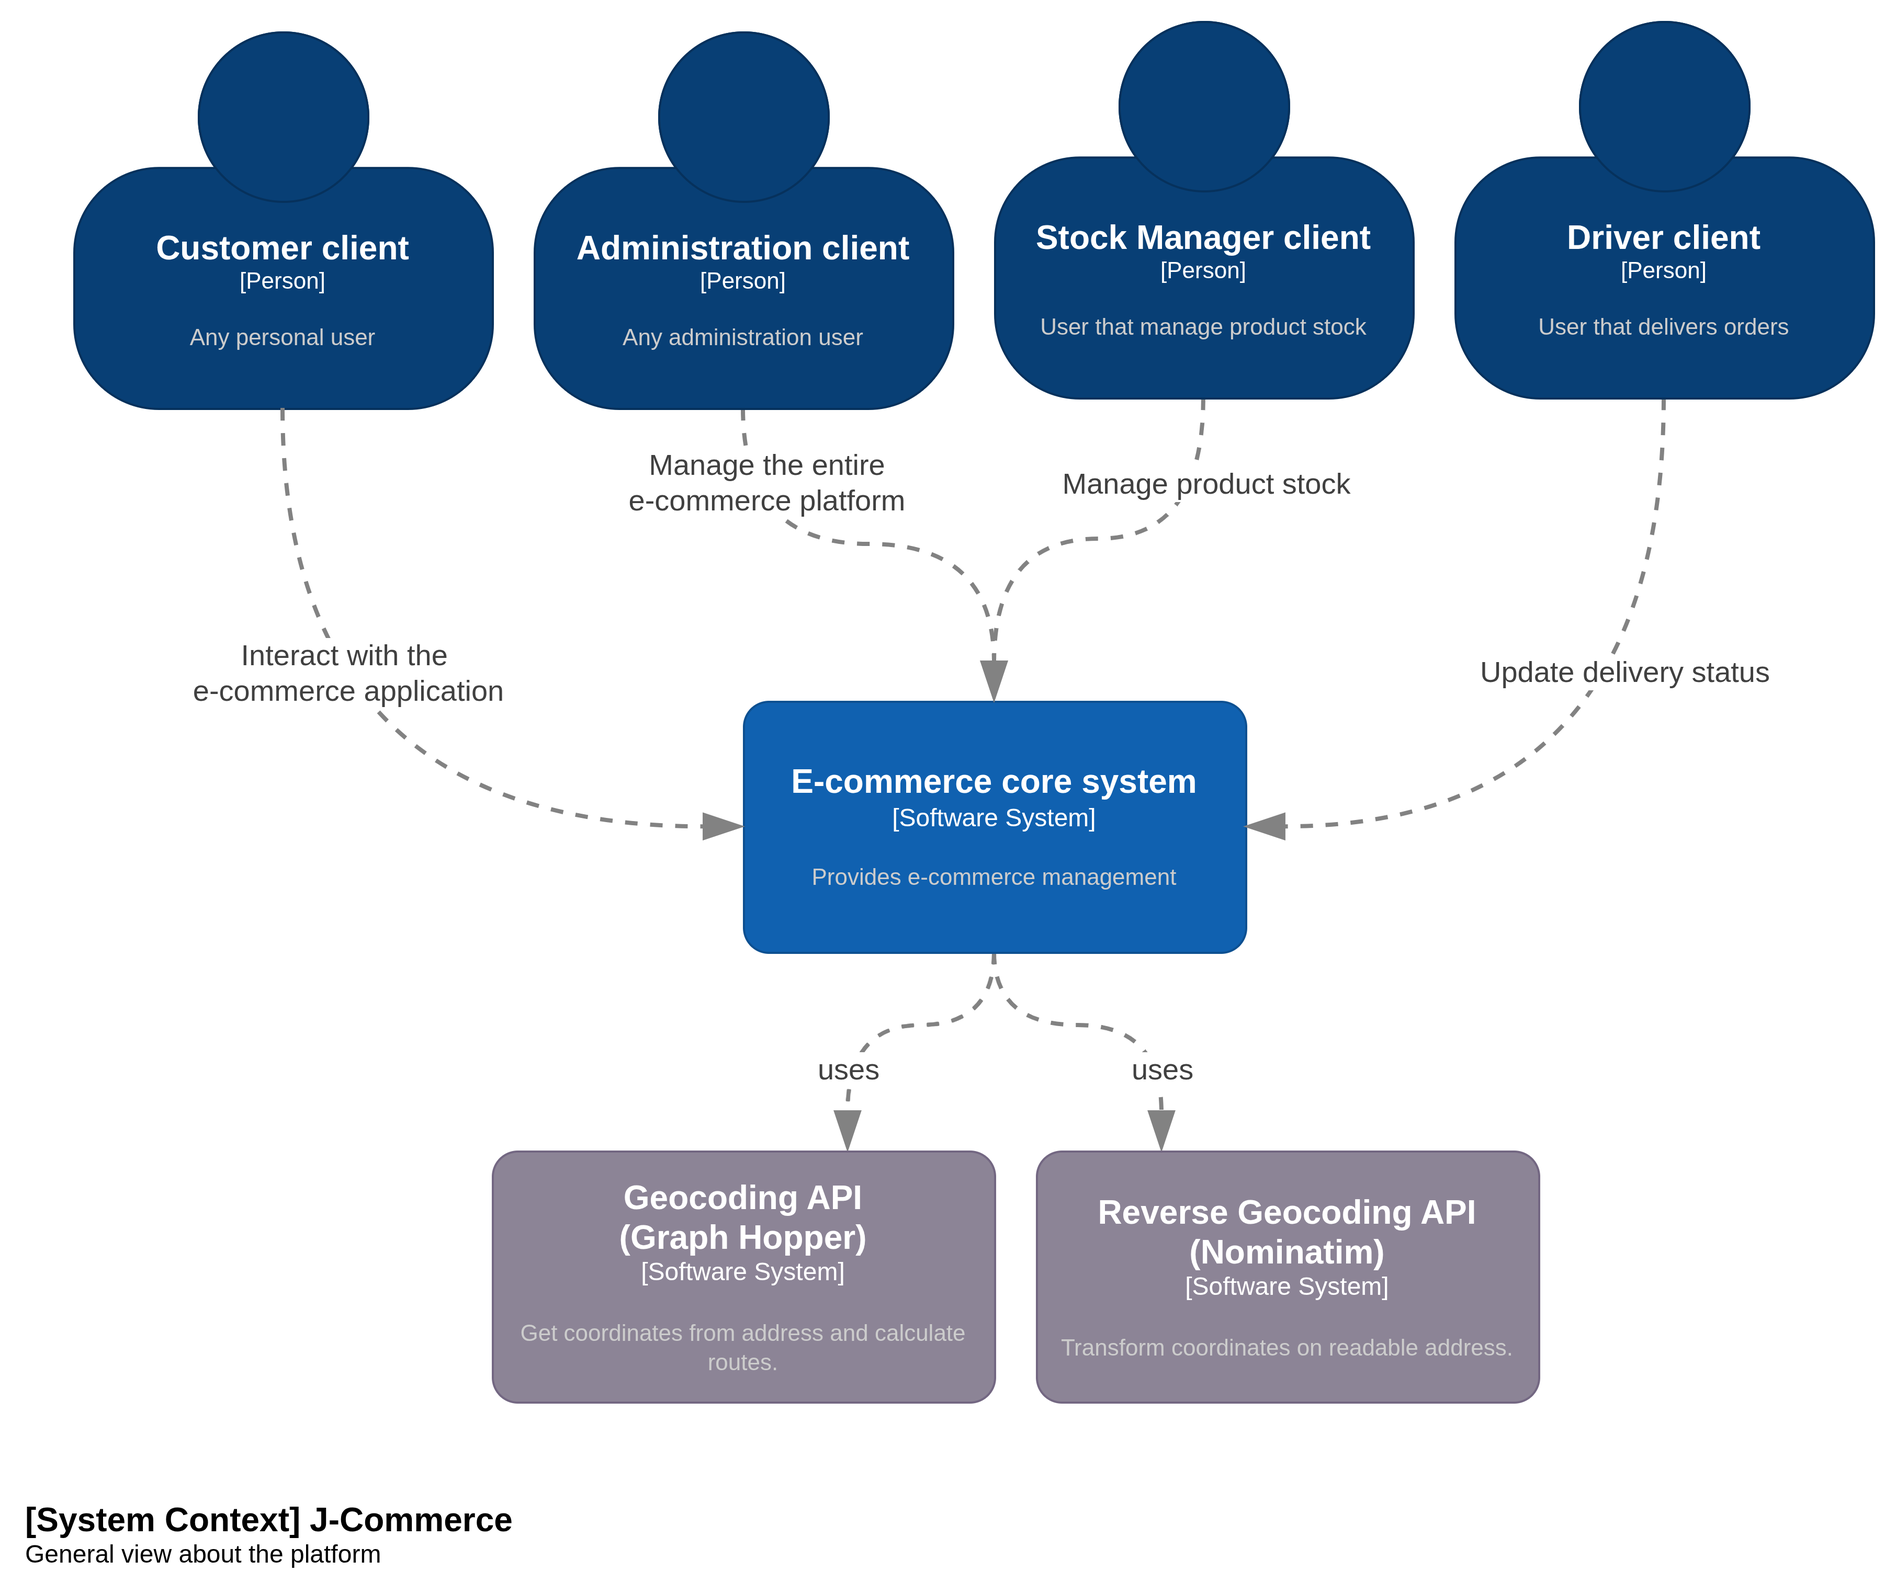
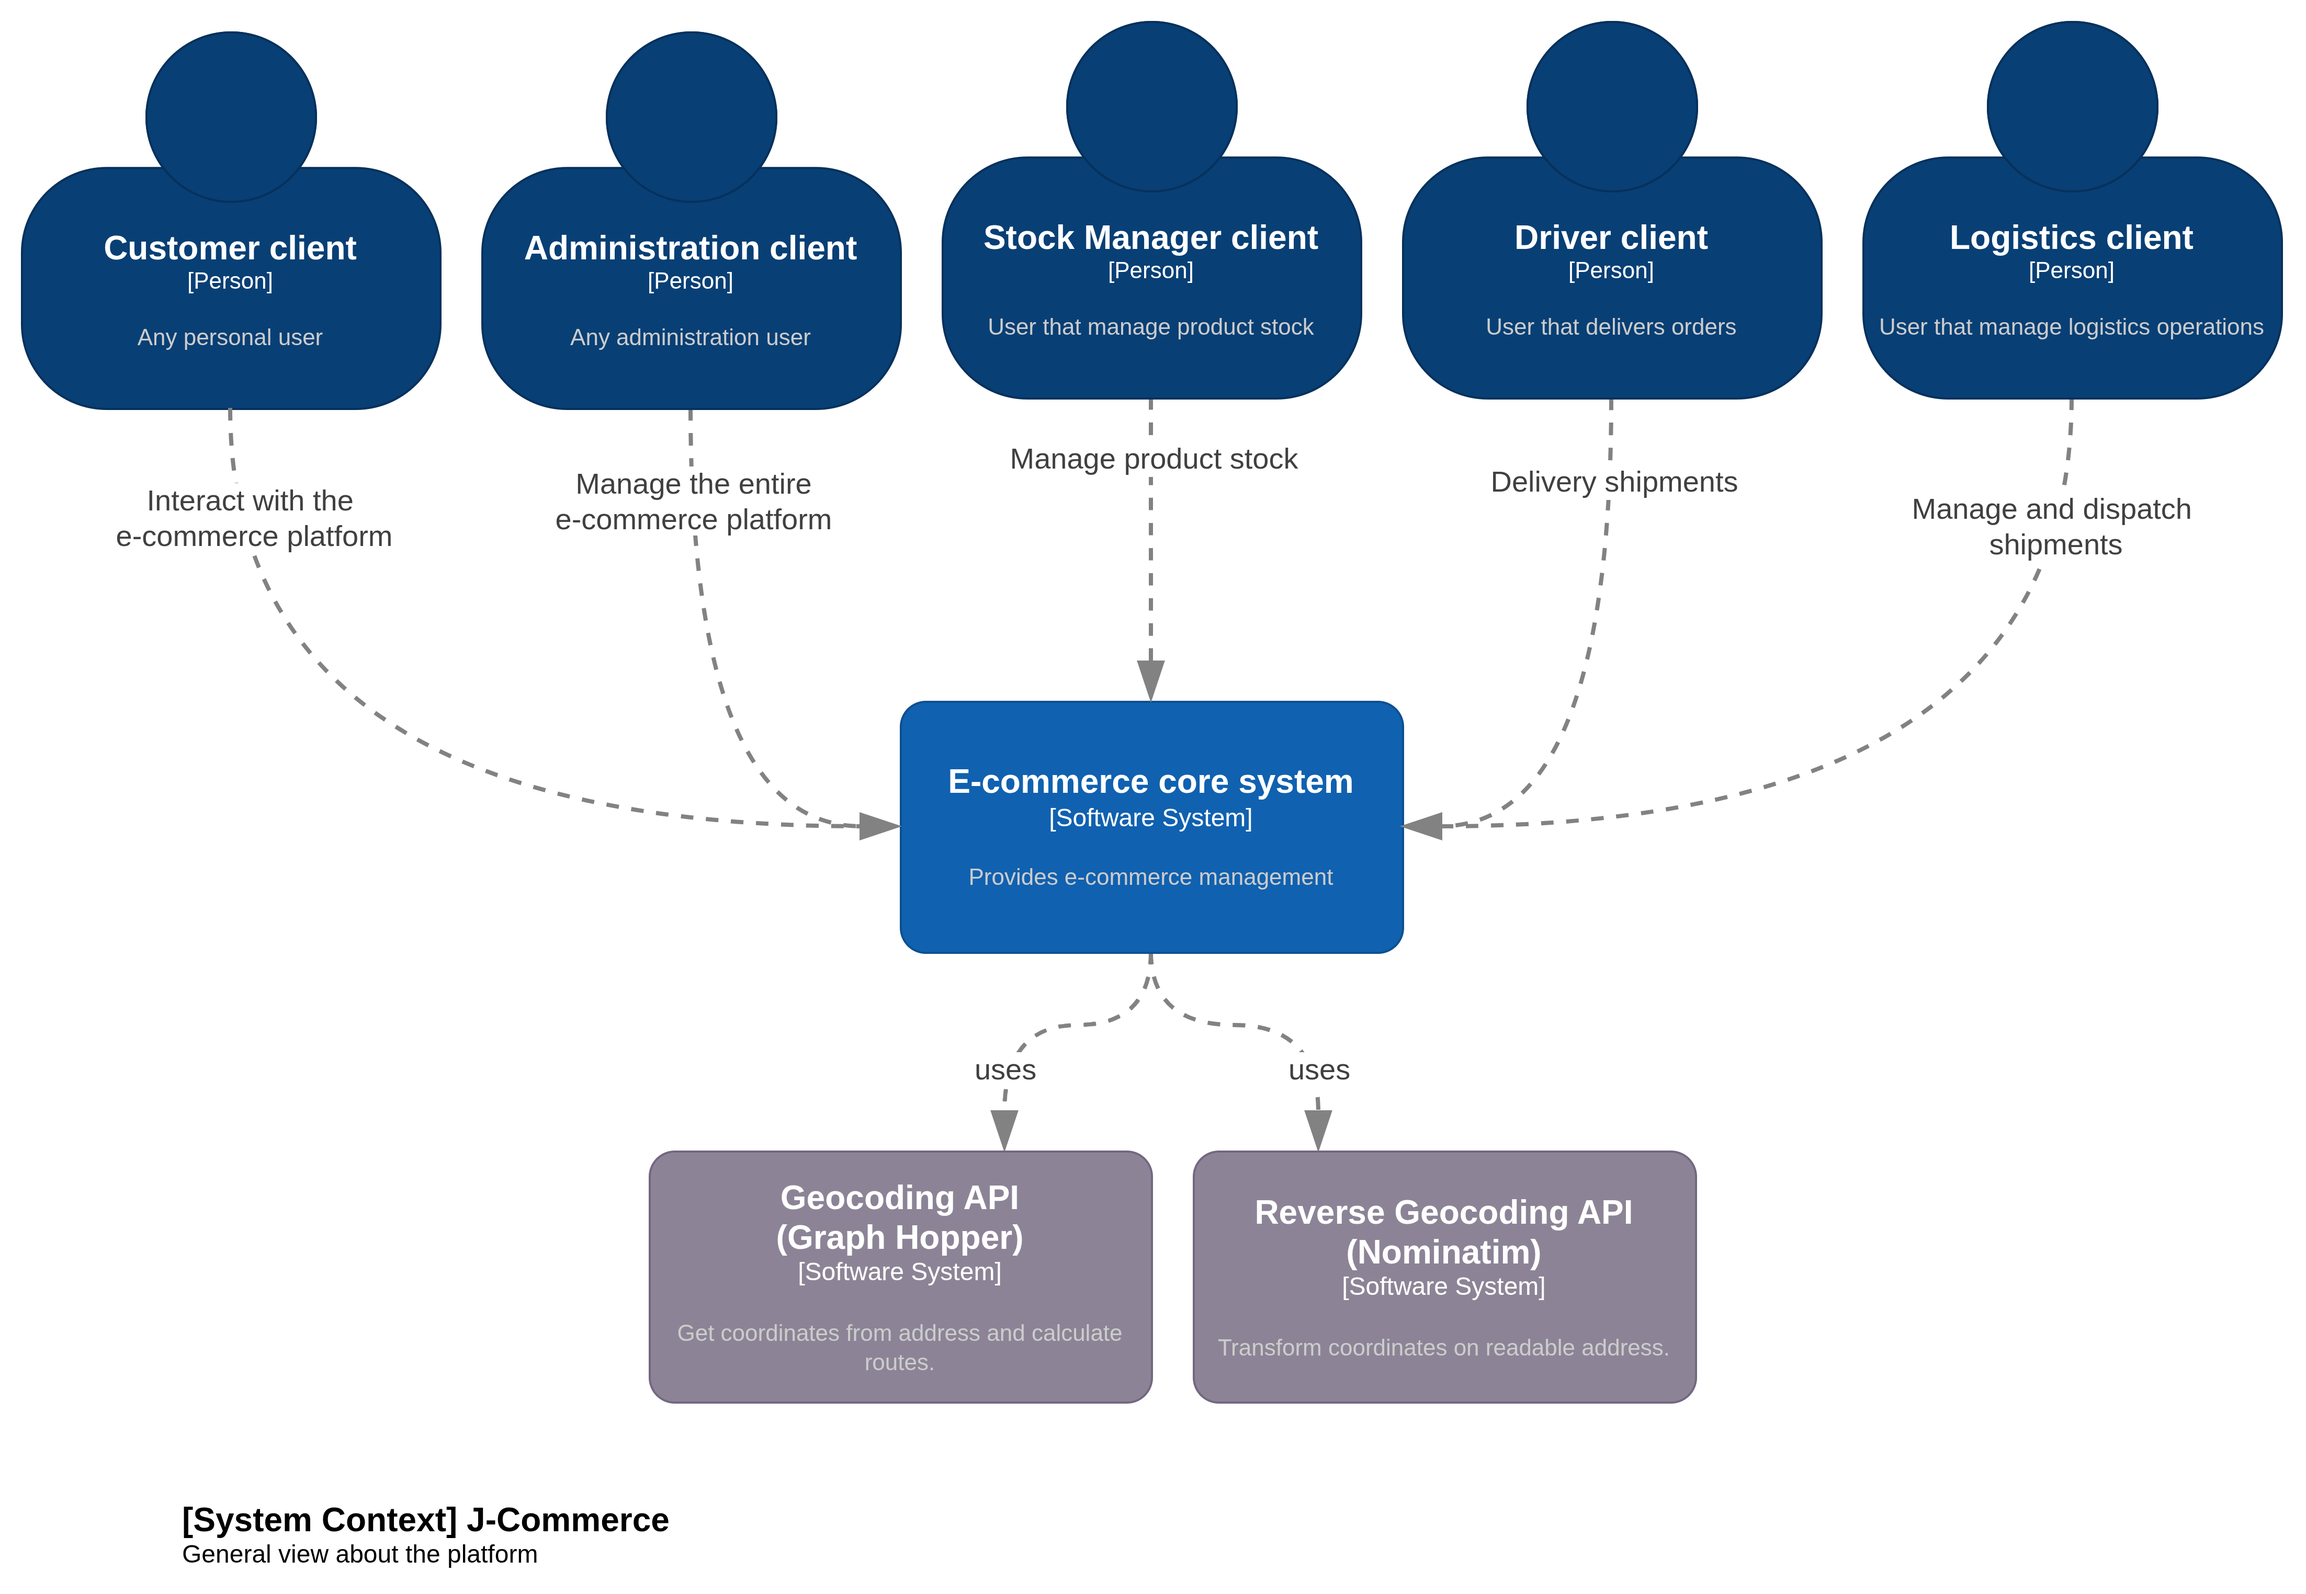
docs: update C4 model level 1 diagram and README

diff --git a/README.md b/README.md
@@ -172,6 +172,17 @@ Services will be available at:
 
 ---
 
+## Use Cases
+
+### Customer use cases
+
+![customer_use_cases.png](images/customer_use_cases.png)
+
+### Management use cases
+
+![management_use_cases.png](images/management_use_cases.png)
+
+
 ## Architecture
 
 The system has a concise list of C4 Model diagrams for architecture documentation. 
